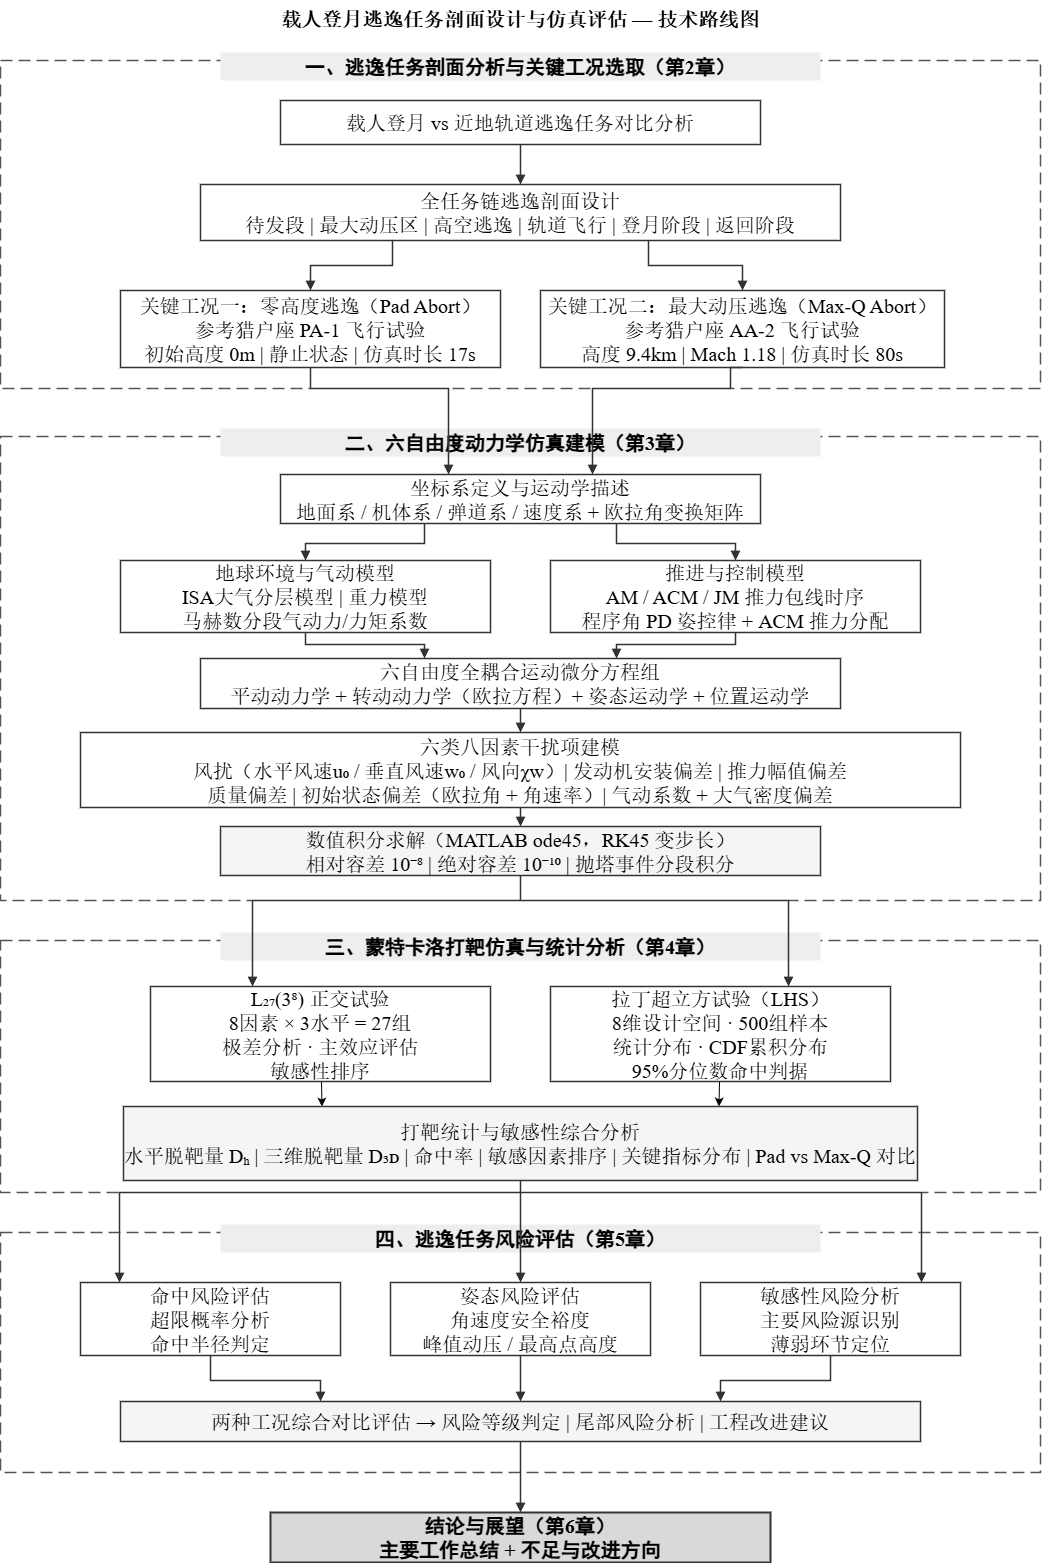
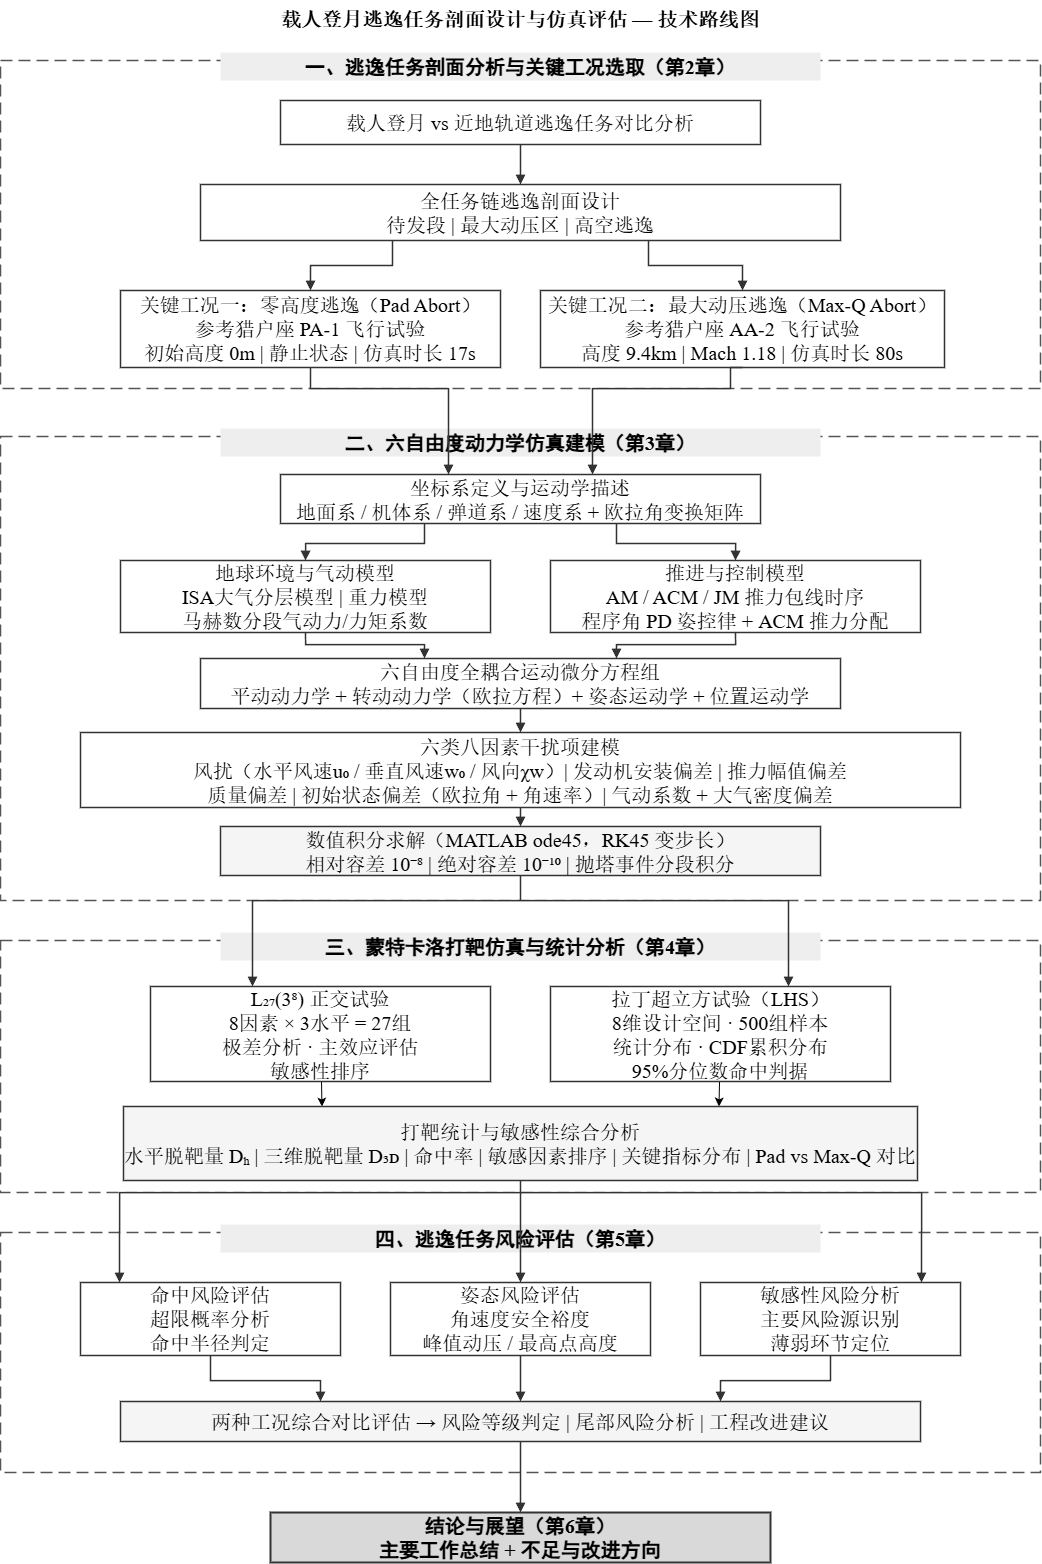
苟建军修改

diff --git a/content/thesis/undergraduate/chapter1.tex b/content/thesis/undergraduate/chapter1.tex
@@ -29,7 +29,7 @@
 
 苏联/俄罗斯的联盟号飞船采用三舱构型，返回舱放在中段，逃逸塔装在整流罩顶部。联盟号的逃逸剖面分成7个阶段，覆盖从待发段到着陆段的全任务周期。2018年联盟MS-10任务发射失败时，飞船在约50公里高空启动了高空逃逸发动机，航天员经历6.7G过载后最终安全返回。这次发射虽然失败了，却验证了联盟号逃逸阶段时序划分和逃逸手段的合理性。
 
-在逃逸系统工程实践之外，国际学术界在相关理论方法层面也开展了深入研究。在动力学建模方面，Chan等~\cite{chan2011modeling}~针对猎户座逃逸飞行器建立了带动力气动数据库的建模方法，为六自由度仿真提供了气动参数表征基础；McGowan~\cite{mcgowan2011overview}~对PA-1试验的逃逸系统构型与飞行性能进行了系统总结，为后续建模提供了校验基准。在仿真理论与方法层面，McKay等~\cite{McKay1999}~系统比较了蒙特卡洛仿真中三种输入变量选取方法，奠定了拉丁超立方抽样（LHS）的理论基础；Helton和Davis~\cite{helton2003latin}~全面综述了LHS在复杂系统不确定性传播分析中的应用框架；Owen~\cite{owen1992central}~从概率论角度证明了LHS的中心极限定理，为该方法在大规模航天系统仿真中的统计有效性提供了理论保障。在风险评估方面，Antonsen等~\cite{Antonsen2023}~更新了NASA面向深空探测的人因系统风险管理流程，提出了基于证据的分级评估范式。
+在逃逸系统工程实践之外，国际学术界在相关理论方法层面也开展了深入研究。在动力学建模方面，Chan等~\cite{chan2011modeling}~针对猎户座逃逸飞行器建立了带动力气动数据库的建模方法，为六自由度仿真提供了气动参数表征基础；McGowan~\cite{mcgowan2011overview}~对PA-1试验的逃逸系统构型与飞行性能进行了系统总结，为后续建模提供了校验基准。在仿真理论与方法层面，McKay等~\cite{McKay1999}~系统比较了蒙特卡洛仿真中三种输入变量选取方法，奠定了拉丁超立方抽样（Latin Hypercube Sampling, LHS）的理论基础；Helton和Davis~\cite{helton2003latin}~全面综述了LHS在复杂系统不确定性传播分析中的应用框架；Owen~\cite{owen1992central}~从概率论角度证明了LHS的中心极限定理，为该方法在大规模航天系统仿真中的统计有效性提供了理论保障。在风险评估方面，Antonsen等~\cite{Antonsen2023}~更新了NASA面向深空探测的人因系统风险管理流程，提出了基于证据的分级评估范式。
 
 \subsection{国内研究现状}
 
@@ -46,9 +46,9 @@
 面向载人登月任务需求，本文选取猎户座飞船作为参考构型，开展发射逃逸阶段的六自由度动力学建模、蒙特卡洛仿真与风险评估研究。主要研究内容有：
 
 \begin{enumerate}
-    \item 发射阶段逃逸剖面设计。对比载人登月与近地轨道逃逸任务的差异，分析发射阶段零高度和最大动压两种典型逃逸工况的剖面特征。
+    \item 逃逸典型任务与剖面分析。对比载人登月与近地轨道逃逸任务的差异，分析发射阶段零高度和最大动压两种典型逃逸工况的剖面特征。
 
-    \item 关键阶段六自由度动力学仿真模型建立。定义坐标系和变换矩阵，构建国际标准大气（ISA）大气模型、气动力/力矩模型、多发动机联合推进模型和姿控模型，推导完整的平动和转动动力学微分方程组，建立六类八因素干扰项的数学模型。
+    \item 关键阶段六自由度动力学仿真模型建立。定义坐标系和变换矩阵，构建国际标准大气（International Standard Atmosphere, ISA）大气模型、气动力/力矩模型、多发动机联合推进模型和姿控模型，推导完整的平动和转动动力学微分方程组，建立六类八因素干扰项的数学模型。
 
     \item 打靶仿真与结果分析。设定两种工况的靶点和干扰项分布参数，通过L27正交试验和500组拉丁超立方试验开展批量打靶仿真，统计分析脱靶量、命中率、敏感因素排序和关键指标的分布情况。
 

diff --git a/content/thesis/undergraduate/chapter2.tex b/content/thesis/undergraduate/chapter2.tex
@@ -1,11 +1,11 @@
-%% 第二章 发射阶段逃逸剖面设计
+%% 第二章 逃逸典型任务与剖面分析
 
-\chapter{发射阶段逃逸剖面设计}
-\chaptermark{发射阶段逃逸剖面设计}
+\chapter{逃逸典型任务与剖面分析}
+\chaptermark{逃逸典型任务与剖面分析}
 
 \section{载人登月逃逸任务特殊性}
 
-载人登月任务因为涉及月球轨道，和近地轨道（LEO）载人飞行任务相比有很大区别，这也让载人登月的逃逸剖面设计有了特殊性。表~\ref{tab:compare}~列出了载人登月与近地轨道逃逸任务的主要差异。
+载人登月任务因为涉及月球轨道，和近地轨道（Low Earth Orbit, LEO）载人飞行任务相比有很大区别，这也让载人登月的逃逸剖面设计有了特殊性。表~\ref{tab:compare}~列出了载人登月与近地轨道逃逸任务的主要差异。
 
 \begin{table}[htbp]
 \caption{载人登月与近地轨道逃逸任务对比}
@@ -34,6 +34,8 @@
 通信延迟问题。地月距离大概38万公里，信号单向时延能达到1.3秒左右。地面没法实时操控飞船或传达指令，必须让飞船自主做决策。这对飞船的自主故障检测和应急处理能力有较高要求。
 
 返回窗口比较有限。近地轨道任务的飞船每90分钟就有一次返回机会；而地月转移和环月轨道段的返回窗口受地月相对位置制约，返回窗口间隔很长，能达到数小时甚至数天一次。所以逃逸方案需要具备长时间的轨道保持能力。
+
+上述分析表明，载人登月逃逸任务覆盖从发射台到月面的完整飞行链条，各阶段的逃逸剖面需独立设计。其中，火箭在发射上升段的故障概率远高于后续飞行阶段，发射逃逸系统也是载人飞船上实际使用概率最高、设计验证最充分的部分~\cite{李颐黎2022}。因此，本文的仿真分析以发射阶段逃逸为核心，后续章节将依次建立六自由度动力学模型并开展打靶评估。本节先对发射阶段的三种典型逃逸剖面进行梳理，为建模提供物理场景支撑。
 
 \section{发射阶段逃逸剖面}
 
@@ -77,7 +79,7 @@
 
 \subsection{高空逃逸}
 
-高空逃逸发生在逃逸塔抛离之后、飞船入轨之前。这个阶段飞行器已经处于较高的高度（通常>40km）~\cite{李颐黎2022}，大气非常稀薄，气动力作用可以忽略。逃逸塔完成使命，已经被抛离，逃逸需要靠飞船服务舱（SM）的主发动机，属于整船逃逸模式。
+高空逃逸发生在逃逸塔抛离之后、飞船入轨之前。这个阶段飞行器已经处于较高的高度（通常>40km）~\cite{李颐黎2022}，大气非常稀薄，气动力作用可以忽略。逃逸塔完成使命，已经被抛离，逃逸需要靠飞船服务舱（Service Module, SM）的主发动机，属于整船逃逸模式。
 
 逃逸过程如下：在故障触发后，SM主发动机先点火，让飞船与故障火箭快速分离并拉开安全距离。随后飞船用姿控发动机调整姿态，选择进入合适的再入返回窗口。再入弹道类型有两种：一种是弹道式再入，另一种是跳跃式再入，弹道式再入的飞船直接以接近零升力的方式再入大气层，过载较大但轨迹简单可靠。跳跃式再入的飞船以较小的再入角进入大气层上边界，利用升力短暂跳出后再二次进入，可以有效降低峰值过载和热流，适合初始能量接近轨道速度的工况。
 

diff --git a/bachelor.tex b/bachelor.tex
@@ -2,7 +2,7 @@
     degree = bachelor,     % 学位类型：phd | master | bachelor
     blindreview = false,   % 盲审模式：隐藏作者、导师信息及致谢
     bibindent = hanging,      % 参考文献缩进：firstline | none | hanging
-    printmode = true,     % 双面印刷模式：true 强制各部分从奇数页开始（仅本科）
+    printmode = false,     % 双面印刷模式：true 强制各部分从奇数页开始（仅本科）
 ]{nwputhesis}
 
 \input{content/thesis/undergraduate/thesis-body}

diff --git a/content/thesis/undergraduate/chapter3.tex b/content/thesis/undergraduate/chapter3.tex
@@ -359,7 +359,7 @@ P_k(t)=\sigma_k(t)\tilde P_k(t)
 
 \subsection{姿态控制模型}
 
-姿态通道采用程序角比例-微分（PD）控制律。三轴控制力矩指令为：
+姿态通道采用程序角比例-微分（Proportional-Differential, PD）控制律。三轴控制力矩指令为：
 \begin{equation}
 \begin{aligned}
 M_{Cz}^{cmd} &= K_{\vartheta}(\vartheta_{pr}-\vartheta) - K_{d\vartheta}\,\omega_{z1} \\[4pt]
